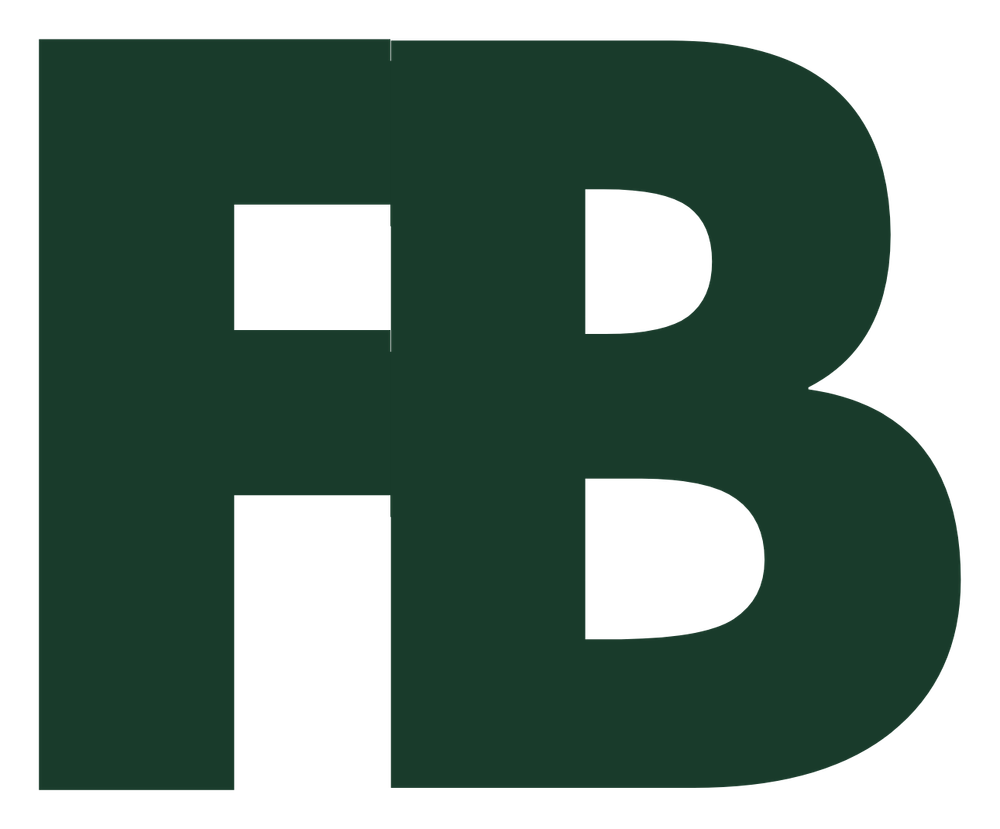
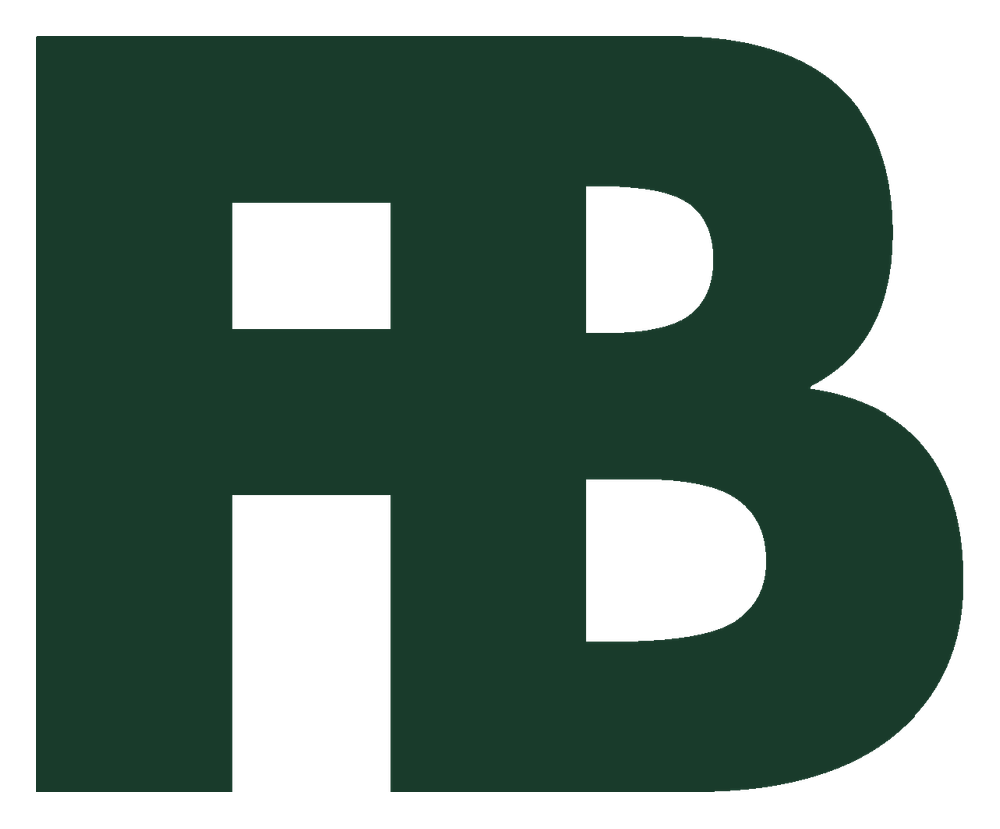
Perfect FBridge monogram alignment

diff --git a/legal-information.html b/legal-information.html
@@ -7,15 +7,15 @@
     <meta name="description" content="Legal information for the FBridge website, operated by WEBRIDGE SOCIEDAD LIMITADA." />
     <meta name="robots" content="index, follow" />
     <link rel="canonical" href="https://fbridge.webridge.es/legal-information.html" />
-    <link rel="icon" href="assets/fbridge-favicon.png?v=20260915-2" type="image/png" />
-    <link rel="apple-touch-icon" href="assets/fbridge-favicon.png?v=20260915-2" />
+    <link rel="icon" href="assets/fbridge-favicon.png?v=20260916-1" type="image/png" />
+    <link rel="apple-touch-icon" href="assets/fbridge-favicon.png?v=20260916-1" />
     <link rel="stylesheet" href="styles.css" />
   </head>
   <body class="legal-page">
     <main class="site-shell">
       <header class="site-header" aria-label="Primary navigation">
         <a class="brand-lockup" href="index.html" aria-label="FBridge home">
-          <img class="brand-logo" src="assets/fbridge-monogram.png?v=20260915-2" alt="" width="1000" height="829" aria-hidden="true" />
+          <img class="brand-logo" src="assets/fbridge-monogram.png?v=20260916-1" alt="" width="1000" height="829" aria-hidden="true" />
           <span class="brand-wordmark" aria-label="FBridge"><span aria-hidden="true"><span class="brand-wordmark-f">F</span><span class="brand-wordmark-b">B</span>ridge</span></span>
         </a>
         <nav class="site-nav" aria-label="Legal pages">
@@ -139,7 +139,7 @@
       <footer class="site-footer">
         <div class="footer-main">
           <div class="footer-identity">
-            <img class="footer-logo" src="assets/fbridge-monogram.png?v=20260915-2" alt="" width="1000" height="829" loading="lazy" decoding="async" aria-hidden="true" />
+            <img class="footer-logo" src="assets/fbridge-monogram.png?v=20260916-1" alt="" width="1000" height="829" loading="lazy" decoding="async" aria-hidden="true" />
             <div><span class="footer-brand brand-wordmark" aria-label="FBridge"><span aria-hidden="true"><span class="brand-wordmark-f">F</span><span class="brand-wordmark-b">B</span>ridge</span></span><p>A weBridge service for raw ingredient supplier sourcing.</p></div>
           </div>
           <nav class="footer-links" aria-label="Legal pages">

diff --git a/privacy-policy.html b/privacy-policy.html
@@ -7,15 +7,15 @@
     <meta name="description" content="How FBridge processes personal data and protects privacy under the GDPR." />
     <meta name="robots" content="index, follow" />
     <link rel="canonical" href="https://fbridge.webridge.es/privacy-policy.html" />
-    <link rel="icon" href="assets/fbridge-favicon.png?v=20260915-2" type="image/png" />
-    <link rel="apple-touch-icon" href="assets/fbridge-favicon.png?v=20260915-2" />
+    <link rel="icon" href="assets/fbridge-favicon.png?v=20260916-1" type="image/png" />
+    <link rel="apple-touch-icon" href="assets/fbridge-favicon.png?v=20260916-1" />
     <link rel="stylesheet" href="styles.css" />
   </head>
   <body class="legal-page">
     <main class="site-shell">
       <header class="site-header" aria-label="Primary navigation">
         <a class="brand-lockup" href="index.html" aria-label="FBridge home">
-          <img class="brand-logo" src="assets/fbridge-monogram.png?v=20260915-2" alt="" width="1000" height="829" aria-hidden="true" />
+          <img class="brand-logo" src="assets/fbridge-monogram.png?v=20260916-1" alt="" width="1000" height="829" aria-hidden="true" />
           <span class="brand-wordmark" aria-label="FBridge"><span aria-hidden="true"><span class="brand-wordmark-f">F</span><span class="brand-wordmark-b">B</span>ridge</span></span>
         </a>
         <nav class="site-nav" aria-label="Legal pages">
@@ -172,7 +172,7 @@
       <footer class="site-footer">
         <div class="footer-main">
           <div class="footer-identity">
-            <img class="footer-logo" src="assets/fbridge-monogram.png?v=20260915-2" alt="" width="1000" height="829" loading="lazy" decoding="async" aria-hidden="true" />
+            <img class="footer-logo" src="assets/fbridge-monogram.png?v=20260916-1" alt="" width="1000" height="829" loading="lazy" decoding="async" aria-hidden="true" />
             <div><span class="footer-brand brand-wordmark" aria-label="FBridge"><span aria-hidden="true"><span class="brand-wordmark-f">F</span><span class="brand-wordmark-b">B</span>ridge</span></span><p>A weBridge service for raw ingredient supplier sourcing.</p></div>
           </div>
           <nav class="footer-links" aria-label="Legal pages">

diff --git a/terms-and-conditions.html b/terms-and-conditions.html
@@ -7,15 +7,15 @@
     <meta name="description" content="Terms and conditions for using the FBridge website." />
     <meta name="robots" content="index, follow" />
     <link rel="canonical" href="https://fbridge.webridge.es/terms-and-conditions.html" />
-    <link rel="icon" href="assets/fbridge-favicon.png?v=20260915-2" type="image/png" />
-    <link rel="apple-touch-icon" href="assets/fbridge-favicon.png?v=20260915-2" />
+    <link rel="icon" href="assets/fbridge-favicon.png?v=20260916-1" type="image/png" />
+    <link rel="apple-touch-icon" href="assets/fbridge-favicon.png?v=20260916-1" />
     <link rel="stylesheet" href="styles.css" />
   </head>
   <body class="legal-page">
     <main class="site-shell">
       <header class="site-header" aria-label="Primary navigation">
         <a class="brand-lockup" href="index.html" aria-label="FBridge home">
-          <img class="brand-logo" src="assets/fbridge-monogram.png?v=20260915-2" alt="" width="1000" height="829" aria-hidden="true" />
+          <img class="brand-logo" src="assets/fbridge-monogram.png?v=20260916-1" alt="" width="1000" height="829" aria-hidden="true" />
           <span class="brand-wordmark" aria-label="FBridge"><span aria-hidden="true"><span class="brand-wordmark-f">F</span><span class="brand-wordmark-b">B</span>ridge</span></span>
         </a>
         <nav class="site-nav" aria-label="Legal pages">
@@ -147,7 +147,7 @@
       <footer class="site-footer">
         <div class="footer-main">
           <div class="footer-identity">
-            <img class="footer-logo" src="assets/fbridge-monogram.png?v=20260915-2" alt="" width="1000" height="829" loading="lazy" decoding="async" aria-hidden="true" />
+            <img class="footer-logo" src="assets/fbridge-monogram.png?v=20260916-1" alt="" width="1000" height="829" loading="lazy" decoding="async" aria-hidden="true" />
             <div><span class="footer-brand brand-wordmark" aria-label="FBridge"><span aria-hidden="true"><span class="brand-wordmark-f">F</span><span class="brand-wordmark-b">B</span>ridge</span></span><p>A weBridge service for raw ingredient supplier sourcing.</p></div>
           </div>
           <nav class="footer-links" aria-label="Legal pages">

diff --git a/index.html b/index.html
@@ -24,8 +24,8 @@
       content="Ingredient supplier sourcing in Latin America and Africa for European food and beverage companies."
     />
     <meta name="twitter:image" content="https://fbridge.webridge.es/assets/og.png" />
-    <link rel="icon" href="assets/fbridge-favicon.png?v=20260915-2" type="image/png" />
-    <link rel="apple-touch-icon" href="assets/fbridge-favicon.png?v=20260915-2" />
+    <link rel="icon" href="assets/fbridge-favicon.png?v=20260916-1" type="image/png" />
+    <link rel="apple-touch-icon" href="assets/fbridge-favicon.png?v=20260916-1" />
     <link rel="stylesheet" href="styles.css" />
     <script src="hero-background.js" defer></script>
     <script src="request-form.js" defer></script>
@@ -36,7 +36,7 @@
         <a class="brand-lockup" href="#top" aria-label="FBridge home">
           <img
             class="brand-logo"
-            src="assets/fbridge-monogram.png?v=20260915-2"
+            src="assets/fbridge-monogram.png?v=20260916-1"
             alt=""
             width="1000"
             height="829"
@@ -379,7 +379,7 @@
           <div class="footer-identity">
             <img
               class="footer-logo"
-              src="assets/fbridge-monogram.png?v=20260915-2"
+              src="assets/fbridge-monogram.png?v=20260916-1"
               alt=""
               width="1000"
               height="829"

diff --git a/README.md b/README.md
@@ -16,7 +16,7 @@ Use a restrained ingredient-sourcing-desk direction: cream surfaces, deep green,
 
 Use the embedded Futura Std family throughout the website. Book is the default text weight, Medium is used for emphasis and interface labels, and Bold is used for the FBridge wordmark and strong legal text. In the wordmark, the `F` and `B` form one tight, baseline-aligned pair while `ridge` keeps its natural spacing. Do not reintroduce a separate serif display face.
 
-The official monogram is the user-supplied dark-green `FB` mark stored as `assets/fbridge-monogram.png`, with the B lowered slightly so both letterforms share the same optical centre, top and baseline. Use it in the header and footer only. Do not place oversized monogram watermarks behind the opening headline or in page sections.
+The official monogram is the user-supplied dark-green `FB` mark stored as `assets/fbridge-monogram.png`. Its clean single-colour silhouette gives the F and B the same top and baseline with a continuous, seam-free join. Use it in the header and footer only. Do not place oversized monogram watermarks behind the opening headline or in page sections.
 
 The first screen should say one thing clearly: FBridge finds ingredient suppliers in Latin America and Africa. Keep the opening catchphrase to `Name the ingredient. We find the right supplier.` Keep enough line spacing in the opening headline that Futura's descenders remain visibly clear of the following line at every viewport size.
 
